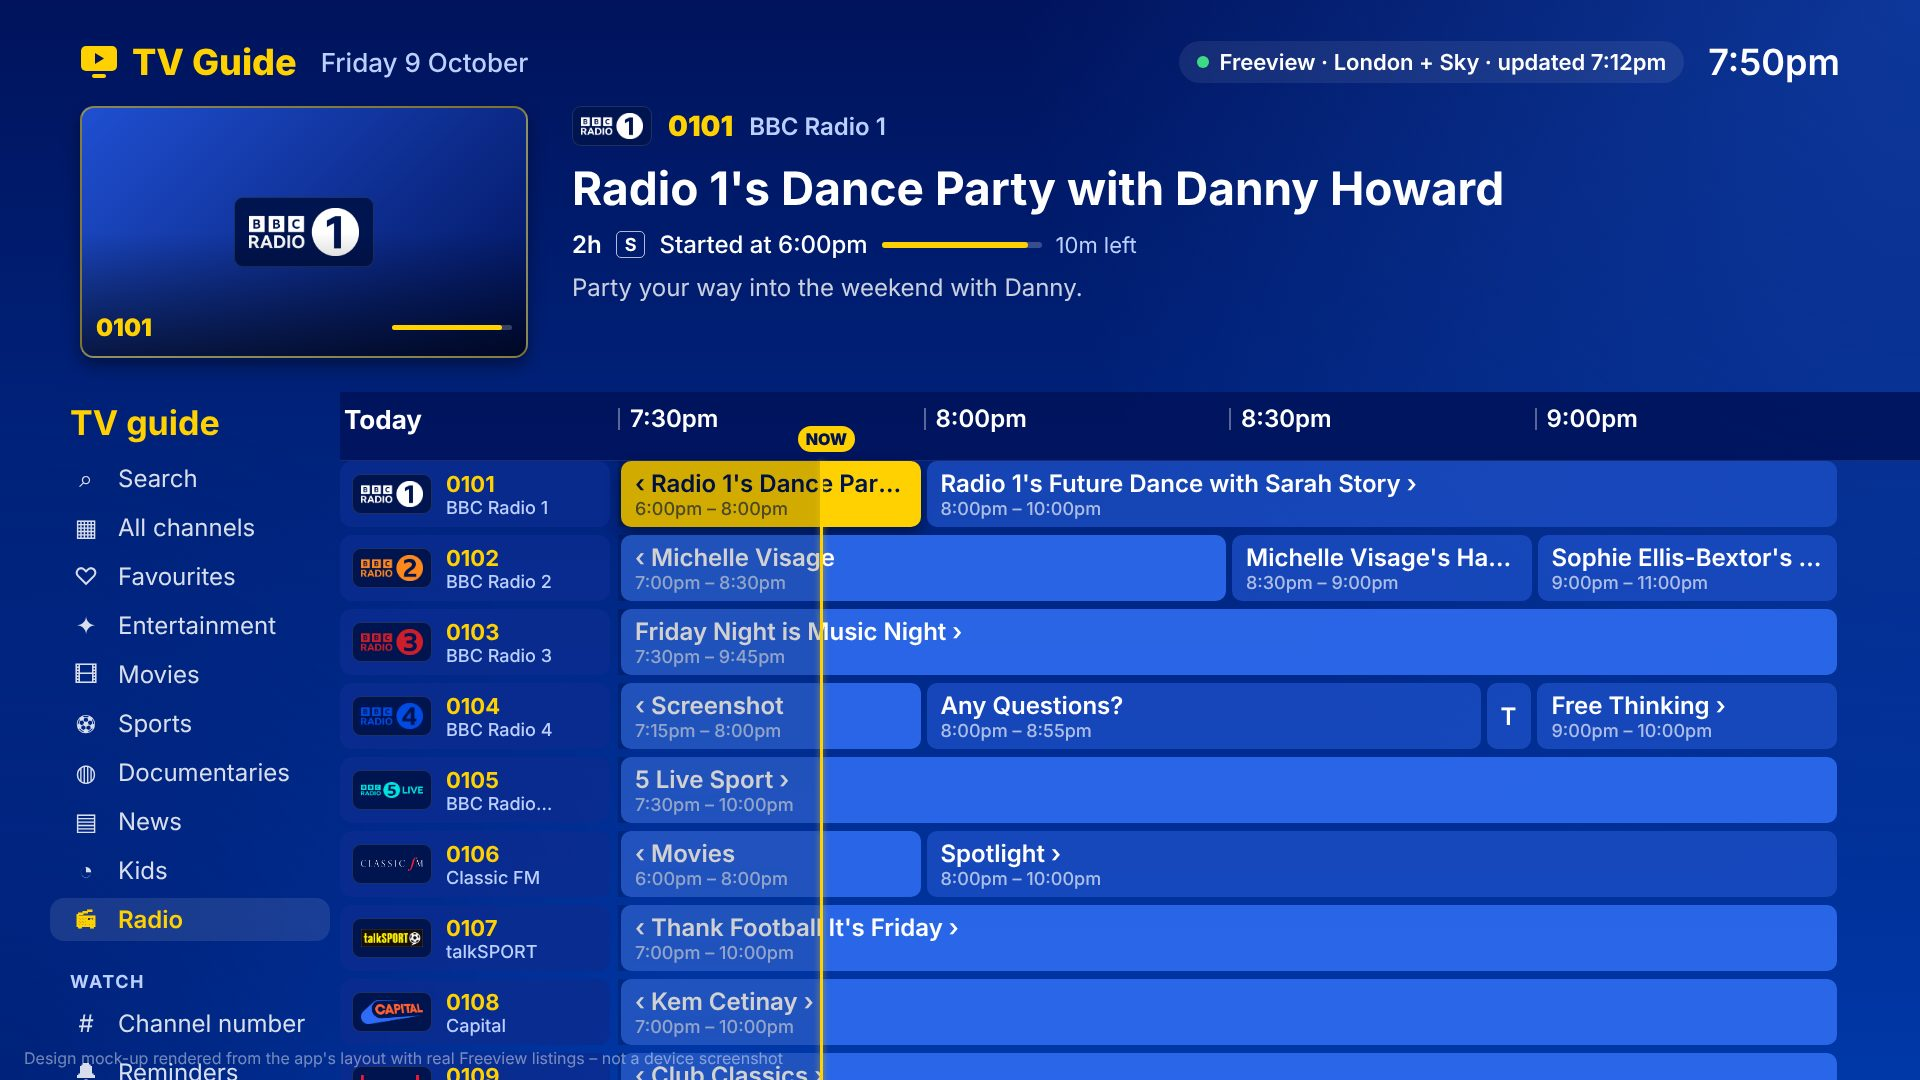
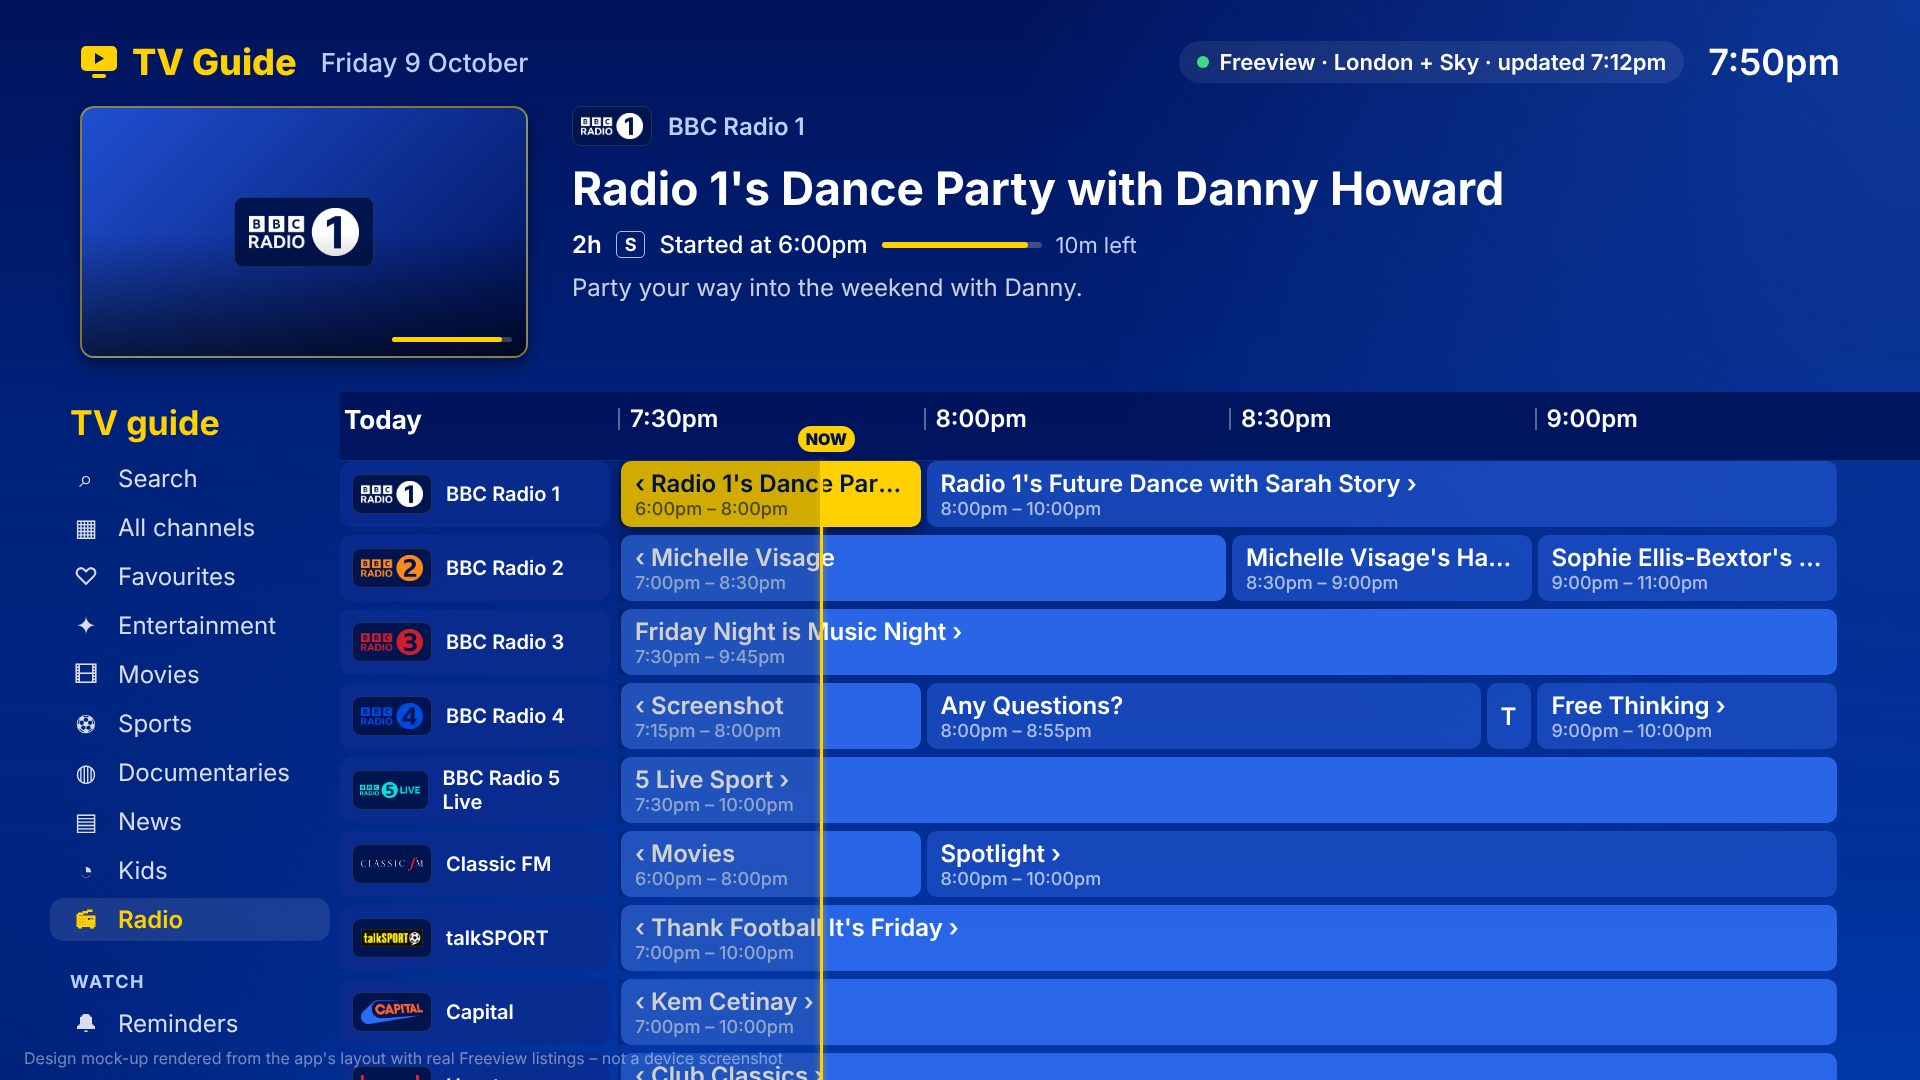
Remove channel numbers from the guide
Apple TV has no channel numbers, so the guide no longer shows them. Channels
keep Sky's order (BBC One, BBC Two, ITV1, Channel 4, 5 ... then radio), which
now only sorts the list.

- Drop numbers from the grid, info panel, preview, tiles, channel banner,
  radio screen, programme page, search results and reminders.
- Remove Sky style number entry: the on-screen keypad, the "Channel number"
  menu item and typed digits.
- Search matches channel names only; reminders no longer store a number.
- README and screenshots updated.

Claude-Session: https://claude.ai/code/session_01EDXQz8F41GDgqury2NHquS

diff --git a/TVGuide/Views/LivePlayerView.swift b/TVGuide/Views/LivePlayerView.swift
@@ -64,7 +64,6 @@ struct LivePlayerView: View {
         .onPlayPauseCommand {
             if player.timeControlStatus == .paused { player.play() } else { player.pause() }
         }
-        .channelNumberEntry()
         .reminderAlerts()
         .animation(.easeInOut(duration: 0.25), value: showBanner)
         .task(id: "\(store.tunedChannelID ?? "")|\(stream?.absoluteString ?? "")") { play(stream) }
@@ -162,12 +161,13 @@ private struct ChannelBanner: View {
         let next = store.next(on: channel)
 
         HStack(alignment: .center, spacing: 36) {
-            VStack(spacing: 10) {
-                Text("\(channel.displayNumber)")
-                    .font(.system(size: 64, weight: .heavy, design: .rounded))
-                    .monospacedDigit()
-                    .foregroundStyle(Theme.accent)
-                ChannelLogo(channel: channel, height: 44)
+            VStack(spacing: 12) {
+                ChannelLogo(channel: channel, height: 64)
+                Text(channel.name)
+                    .font(.system(size: 22, weight: .semibold))
+                    .foregroundStyle(Theme.secondaryText)
+                    .lineLimit(1)
+                    .minimumScaleFactor(0.7)
             }
             .frame(width: 200)
 
@@ -307,7 +307,7 @@ struct VideoSurface: UIViewRepresentable {
     }
 }
 
-/// Sky style radio screen: big station logo and number, what's on, a moving
+/// Sky style radio screen: big station logo and name, what's on, a moving
 /// level meter, and what's next.
 private struct RadioNowPlaying: View {
     @Environment(GuideStore.self) private var store
@@ -345,10 +345,6 @@ private struct RadioNowPlaying: View {
                     }
                     .shadow(color: .black.opacity(0.45), radius: 30, y: 16)
 
-                    Text(channel.displayNumber)
-                        .font(.system(size: 64, weight: .heavy, design: .rounded))
-                        .monospacedDigit()
-                        .foregroundStyle(Theme.accent)
                 }
 
                 VStack(alignment: .leading, spacing: 22) {

diff --git a/TVGuide/Store/GuideStore.swift b/TVGuide/Store/GuideStore.swift
@@ -228,7 +228,7 @@ final class GuideStore {
 
     /// Free-to-air line-up for the region plus any Sky channels, in number order.
     private func rebuildChannels() {
-        // TV in number order, then radio (0101 …), like the Sky guide.
+        // TV in Sky order, then radio, like the Sky guide.
         channels = (ChannelLineup.channels(for: region) + skyChannels + catalogueChannels)
             .sorted { ($0.isRadio ? 1 : 0, $0.number) < ($1.isRadio ? 1 : 0, $1.number) }
         applyLogos()
@@ -336,24 +336,6 @@ final class GuideStore {
 
     func tune(_ channel: Channel) { tunedChannelID = channel.id }
 
-    /// The channel for digits typed Sky style: "101" is BBC One, "0101" is BBC Radio 1.
-    func channel(digits: String) -> Channel? {
-        guard let number = Int(digits) else { return nil }
-        let wantsRadio = digits.hasPrefix("0")
-        return channels.first { $0.number == number && $0.isRadio == wantsRadio }
-    }
-
-    /// Tunes to a channel by its number, Sky style. Returns `false` if no channel has that number.
-    @discardableResult
-    func tune(number: Int) -> Bool { tune(digits: String(number)) }
-
-    @discardableResult
-    func tune(digits: String) -> Bool {
-        guard let channel = channel(digits: digits) else { return false }
-        tune(channel)
-        return true
-    }
-
     /// Channel up / down, wrapping around the full line-up.
     func channel(after channel: Channel, offset: Int) -> Channel? {
         // TV zaps through TV channels and radio through radio stations.
@@ -419,7 +401,7 @@ final class GuideStore {
         }
 
         var results = SearchResults()
-        results.channels = channels.filter { matches($0.name) || $0.displayNumber == query.trimmed }
+        results.channels = channels.filter { matches($0.name) }
         var seen = Set<String>()
         for channel in channels {
             for programme in schedules[channel.id] ?? [] where programme.end > now && matches(programme.title) {

diff --git a/TVGuide/Views/RemindersView.swift b/TVGuide/Views/RemindersView.swift
@@ -16,14 +16,14 @@ struct ReminderAlerts: ViewModifier {
             .alert(current.map { "Reminder: \($0.title)" } ?? "Reminder",
                    isPresented: Binding(get: { current != nil }, set: { if !$0 { current = nil } }),
                    presenting: current) { reminder in
-                Button("Watch \(reminder.channelDisplayNumber) \(reminder.channelName)") {
+                Button("Watch \(reminder.channelName)") {
                     if let channel = store.channel(id: reminder.channelID) { store.tune(channel) }
                 }
                 Button("Dismiss", role: .cancel) {}
             } message: { reminder in
                 Text(reminder.start > store.now
-                     ? "Starts at \(Fmt.time(reminder.start)) on \(reminder.channelDisplayNumber) \(reminder.channelName)."
-                     : "Started at \(Fmt.time(reminder.start)) on \(reminder.channelDisplayNumber) \(reminder.channelName).")
+                     ? "Starts at \(Fmt.time(reminder.start)) on \(reminder.channelName)."
+                     : "Started at \(Fmt.time(reminder.start)) on \(reminder.channelName).")
             }
     }
 
@@ -92,10 +92,8 @@ private struct ReminderRow: View {
 
     var body: some View {
         HStack(spacing: 30) {
-            Text("\(reminder.channelDisplayNumber)")
-                .font(.system(size: 34, weight: .heavy))
-                .monospacedDigit()
-                .frame(width: 100, alignment: .leading)
+            Image(systemName: "bell.fill")
+                .font(.system(size: 28))
             VStack(alignment: .leading, spacing: 4) {
                 Text(reminder.title).font(.system(size: 30, weight: .bold)).lineLimit(1)
                 Text("\(Fmt.day(reminder.start, relativeTo: now)) · \(Fmt.time(reminder.start)) – \(Fmt.time(reminder.end)) · \(reminder.channelName)")

diff --git a/TVGuide/Views/GuideRootView.swift b/TVGuide/Views/GuideRootView.swift
@@ -9,7 +9,6 @@ struct GuideRootView: View {
     @State private var isGridFocused = false
     @State private var showingRegions = false
     @State private var showingLiveSettings = false
-    @State private var showingNumberPad = false
     @State private var showingSearch = false
     @State private var showingReminders = false
 
@@ -27,14 +26,10 @@ struct GuideRootView: View {
                     }
                 HeroPanel(highlight: highlight ?? fallbackHighlight)
                     .frame(height: Theme.heroHeight)
-                    .fullScreenCover(isPresented: $showingNumberPad) {
-                        NumberPad(onTune: tuneAfterDismiss).environment(store)
-                    }
 
                 HStack(alignment: .top, spacing: 0) {
                     GuideSidebar(showingRegions: $showingRegions,
                                  showingLiveSettings: $showingLiveSettings,
-                                 showingNumberPad: $showingNumberPad,
                                  showingSearch: $showingSearch,
                                  showingReminders: $showingReminders,
                                  isLocked: isGridFocused && !store.isAtNow)
@@ -64,13 +59,12 @@ struct GuideRootView: View {
                 .environment(store)
                 .environment(reminders)
         }
-        .channelNumberEntry()
         .reminderAlerts(isActive: store.tunedChannelID == nil && detail == nil && !isShowingOverlay)
     }
 
     /// Any full screen page on top of the guide (reminder alerts wait until it closes).
     private var isShowingOverlay: Bool {
-        showingSearch || showingReminders || showingNumberPad || showingLiveSettings || showingRegions
+        showingSearch || showingReminders || showingLiveSettings || showingRegions
     }
 
     /// Full screen live TV is shown whenever a channel is tuned.

diff --git a/TVGuide/Views/GuideRow.swift b/TVGuide/Views/GuideRow.swift
@@ -36,7 +36,7 @@ struct GuideRow: View {
                     }
                     .contextMenu {
                         Button { store.tune(channel) } label: {
-                            Label("Watch \(channel.displayNumber) \(channel.name)", systemImage: "play.fill")
+                            Label("Watch \(channel.name)", systemImage: "play.fill")
                         }
                         if programme.start > store.now, !programme.isPlaceholder {
                             Button { reminders.toggle(programme, on: channel) } label: {
@@ -116,7 +116,7 @@ struct GuideRow: View {
     }
 }
 
-/// Channel number, logo and name at the start of each row.
+/// Logo and name at the start of each row.
 private struct ChannelCell: View {
     let channel: Channel
     let isFavourite: Bool
@@ -124,16 +124,10 @@ private struct ChannelCell: View {
     var body: some View {
         HStack(spacing: 14) {
             ChannelLogo(channel: channel, height: 40)
-            VStack(alignment: .leading, spacing: 0) {
-                Text("\(channel.displayNumber)")
-                    .font(.system(size: 22, weight: .bold))
-                    .monospacedDigit()
-                    .foregroundStyle(Theme.accent)
-                Text(channel.name)
-                    .font(.system(size: 18, weight: .medium))
-                    .foregroundStyle(Theme.secondaryText)
-                    .lineLimit(1)
-            }
+            Text(channel.name)
+                .font(.system(size: 20, weight: .semibold))
+                .lineLimit(2)
+                .minimumScaleFactor(0.8)
             Spacer(minLength: 0)
             if isFavourite {
                 Image(systemName: "heart.fill")

diff --git a/TVGuide/Views/SearchView.swift b/TVGuide/Views/SearchView.swift
@@ -121,10 +121,6 @@ private struct ChannelResult: View {
 
     var body: some View {
         HStack(spacing: 16) {
-            Text("\(channel.displayNumber)")
-                .font(.system(size: 30, weight: .heavy))
-                .monospacedDigit()
-                .foregroundStyle(Theme.accent)
             ChannelLogo(channel: channel, height: 44)
             Text(channel.name).font(.system(size: 24, weight: .semibold)).lineLimit(1)
         }
@@ -147,8 +143,8 @@ private struct ProgrammeResult: View {
             VStack(alignment: .leading, spacing: 4) {
                 Text(programme.title).font(.system(size: 24, weight: .bold)).lineLimit(1)
                 Text(programme.isOn(at: now)
-                     ? "Now · \(channel.displayNumber) \(channel.name)"
-                     : "\(Fmt.day(programme.start, relativeTo: now)) \(Fmt.time(programme.start)) · \(channel.displayNumber) \(channel.name)")
+                     ? "Now · \(channel.name)"
+                     : "\(Fmt.day(programme.start, relativeTo: now)) \(Fmt.time(programme.start)) · \(channel.name)")
                     .font(.system(size: 18, weight: .medium))
                     .foregroundStyle(.white.opacity(0.8))
                     .lineLimit(1)

diff --git a/TVGuide/Models/Channel.swift b/TVGuide/Models/Channel.swift
@@ -50,7 +50,8 @@ enum ChannelCategory: String, CaseIterable, Identifiable, Codable {
 struct Channel: Identifiable, Hashable, Codable {
     /// The XMLTV channel id used by the EPG feed, e.g. `BBCTwoHD.uk`.
     let id: String
-    /// Logical channel number shown in the guide.
+    /// Position in the guide, following Sky's channel order (BBC One first,
+    /// radio after TV). Used only for sorting; not shown on screen.
     let number: Int
     let name: String
     let category: ChannelCategory
@@ -58,11 +59,8 @@ struct Channel: Identifiable, Hashable, Codable {
     /// Brand colour used for fallback logos and tile gradients, as `RRGGBB`.
     let brandHex: String
     var logoURL: URL?
-    /// Radio station: numbered Sky style with a leading zero ("0101") and played audio-only.
+    /// Radio station: listed after the TV channels and played audio-only.
     var isRadio: Bool { category == .radio }
-
-    /// The number as shown on screen: "101" for TV, "0101" for radio.
-    var displayNumber: String { isRadio ? String(format: "0%03d", number) : String(number) }
 
     init(_ number: Int, _ name: String, id: String, _ category: ChannelCategory,
          hd: Bool = false, brand: String = "1F4FD1", logo: URL? = nil) {

diff --git a/TVGuide/Views/HeroPanel.swift b/TVGuide/Views/HeroPanel.swift
@@ -31,10 +31,6 @@ struct HeroPanel: View {
         return VStack(alignment: .leading, spacing: 14) {
             HStack(spacing: 16) {
                 ChannelLogo(channel: channel, height: 40)
-                Text("\(channel.displayNumber)")
-                    .font(.system(size: 28, weight: .heavy))
-                    .monospacedDigit()
-                    .foregroundStyle(Theme.accent)
                 Text(channel.name)
                     .font(.system(size: 24, weight: .semibold))
                     .foregroundStyle(Theme.secondaryText)
@@ -115,10 +111,6 @@ struct LivePreview: View {
             }
             LinearGradient(colors: [.clear, .black.opacity(0.6)], startPoint: .center, endPoint: .bottom)
             HStack(spacing: 10) {
-                Text("\(channel.displayNumber)")
-                    .font(.system(size: 24, weight: .heavy))
-                    .monospacedDigit()
-                    .foregroundStyle(Theme.accent)
                 if showsVideo {
                     Text("LIVE")
                         .font(.system(size: 14, weight: .heavy))

diff --git a/TVGuide/Models/RadioCatalogue.swift b/TVGuide/Models/RadioCatalogue.swift
@@ -1,12 +1,12 @@
 import Foundation
 
-/// Radio stations beyond Sky's own radio list (0101–0142), numbered Sky style
-/// after it:
-/// - 0143–0146 extra BBC national streams
-/// - 0150–0189 national commercial stations (Absolute, KISS, Magic, Greatest
+/// Radio stations beyond Sky's own radio list. `number` only orders them in
+/// the guide (it isn't shown), continuing after Sky's list:
+/// - 143–146 extra BBC national streams
+/// - 150–189 national commercial stations (Absolute, KISS, Magic, Greatest
 ///   Hits, Hits Radio, Jazz FM, Planet Rock, Boom, LBC London, Global extras)
-/// - 0200–0241 BBC Local Radio
-/// - 0260 onwards regional stations for Scotland, Northern Ireland, Wales and
+/// - 200–241 BBC Local Radio
+/// - 260 onwards regional stations for Scotland, Northern Ireland, Wales and
 ///   the English regions (Cool FM, Downtown, Clyde 1, Forth 1, Radio City …)
 ///
 /// BBC and Global stream addresses were checked when this list was written.

diff --git a/TVGuide/Views/GuideSidebar.swift b/TVGuide/Views/GuideSidebar.swift
@@ -5,7 +5,6 @@ struct GuideSidebar: View {
     @Environment(GuideStore.self) private var store
     @Binding var showingRegions: Bool
     @Binding var showingLiveSettings: Bool
-    @Binding var showingNumberPad: Bool
     @Binding var showingSearch: Bool
     @Binding var showingReminders: Bool
     /// While the user pages back through the timeline the sidebar steps aside,
@@ -34,10 +33,6 @@ struct GuideSidebar: View {
                 }
 
                 sectionTitle("Watch")
-                Button { showingNumberPad = true } label: {
-                    Label("Channel number", systemImage: "number")
-                }
-                .buttonStyle(SidebarButtonStyle(isSelected: false))
                 Button { showingReminders = true } label: { Label("Reminders", systemImage: "bell") }
                     .buttonStyle(SidebarButtonStyle(isSelected: false))
                 Button { showingLiveSettings = true } label: {

diff --git a/TVGuide/Models/RadioStations.swift b/TVGuide/Models/RadioStations.swift
@@ -1,14 +1,15 @@
 import Foundation
 
-/// UK radio stations in Sky's radio line-up (0101 BBC Radio 1 … 0142 Times
-/// Radio), with the broadcasters' own public internet streams.
+/// UK radio stations in Sky's radio line-up (BBC Radio 1 … Times Radio), in
+/// Sky's order, with the broadcasters' own public internet streams.
 ///
 /// Stream addresses were checked when this table was written: BBC stations
 /// use the BBC's HLS streams, commercial stations their Icecast/AAC streams.
 /// Stations without a working public stream have `stream == nil` and still
 /// appear in the guide with their listings.
 struct RadioStation {
-    /// Sky radio number without the leading zero (101 = "0101").
+    /// Position in Sky's radio list (Sky's number without the leading zero);
+    /// used to match Sky's radio services and for ordering, not shown.
     let number: Int
     let name: String
     let stream: URL?

diff --git a/TVGuide/Store/ReminderStore.swift b/TVGuide/Store/ReminderStore.swift
@@ -14,9 +14,6 @@ final class Reminder {
     var programmeID: String = ""
     var channelID: String = ""
     var channelName: String = ""
-    var channelNumber: Int = 0
-    /// "101" for TV, "0101" for radio.
-    var channelDisplayNumber: String = ""
     var title: String = ""
     var start: Date = Date.distantPast
     var end: Date = Date.distantPast
@@ -26,8 +23,6 @@ final class Reminder {
         programmeID = programme.id
         channelID = channel.id
         channelName = channel.name
-        channelNumber = channel.number
-        channelDisplayNumber = channel.displayNumber
         title = programme.title
         start = programme.start
         end = programme.end
